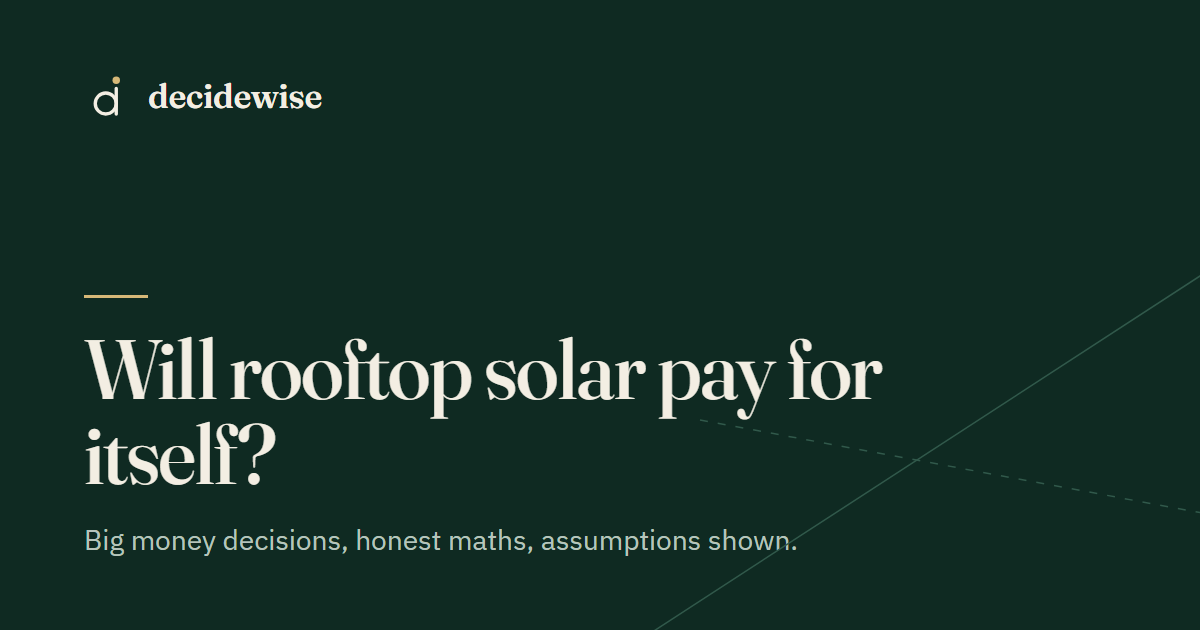
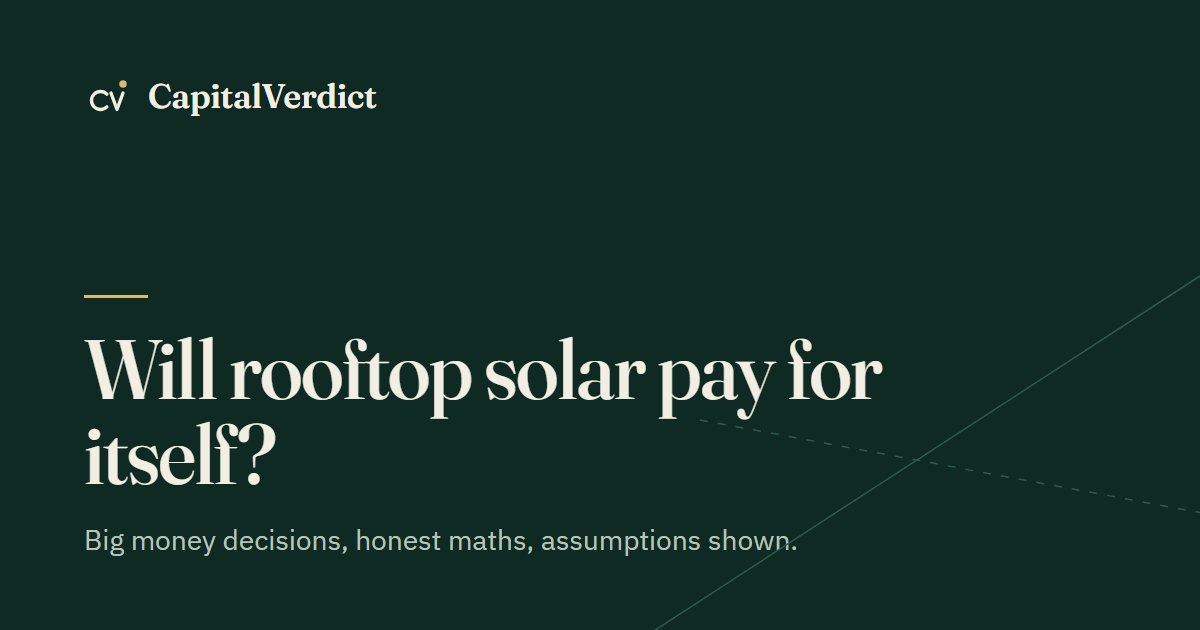
Rebrand to CapitalVerdict
New single-stroke "cv" monogram with the brass dot (logo, favicon, app icons,
brand files) and CapitalVerdict wordmark; name updated in all copy, legal
pages, blog, data source notes, manifest, CSV filenames, docs and tests;
link-preview images re-rendered. Storage keys (dw.*) unchanged so visitors'
saved settings and scenarios carry over.

Changed region(s): [[0.0617, 0.1206, 0.3083, 0.181]]

diff --git a/src/i18n/t.test.ts b/src/i18n/t.test.ts
@@ -9,10 +9,10 @@ describe('i18n dictionaries', () => {
   });
 
   it('fills placeholders', () => {
-    expect(t('en', 'footer.copyright', { year: 2026 })).toBe('© 2026 Decidewise');
+    expect(t('en', 'footer.copyright', { year: 2026 })).toBe('© 2026 CapitalVerdict');
   });
 
   it('leaves unknown placeholders untouched', () => {
-    expect(t('en', 'footer.copyright')).toBe('© {year} Decidewise');
+    expect(t('en', 'footer.copyright')).toBe('© {year} CapitalVerdict');
   });
 });

diff --git a/src/env.d.ts b/src/env.d.ts
@@ -1,7 +1,7 @@
 /// <reference types="astro/client" />
 
 interface ImportMetaEnv {
-  /** Production origin, e.g. https://decidewise.in. Used for canonical links, sitemap and feeds. */
+  /** Production origin, e.g. https://capitalverdict.com. Used for canonical links, sitemap and feeds. */
   readonly SITE_URL?: string;
   /** Where "Report an error" emails go. The link is hidden until this is set. */
   readonly PUBLIC_CONTACT_EMAIL?: string;

diff --git a/src/components/islands/CarFuelTool.tsx b/src/components/islands/CarFuelTool.tsx
@@ -970,7 +970,9 @@ export default function CarFuelTool({ locale }: Props) {
                   : []
               }
               csvFilename={
-                all ? 'decidewise-petrol-cng-ev.csv' : `decidewise-${singleKind}-vs-petrol.csv`
+                all
+                  ? 'capitalverdict-petrol-cng-ev.csv'
+                  : `capitalverdict-${singleKind}-vs-petrol.csv`
               }
             />
           </MoreDetail>

diff --git a/src/components/islands/SolarTool.tsx b/src/components/islands/SolarTool.tsx
@@ -554,7 +554,7 @@ export default function SolarTool({ locale }: Props) {
                 locale={locale}
                 columns={columns}
                 highlight={r.payback && r.payback.months > 0 ? [r.payback.months] : []}
-                csvFilename="decidewise-rooftop-solar.csv"
+                csvFilename="capitalverdict-rooftop-solar.csv"
               />
             </MoreDetail>
           </div>

diff --git a/src/components/islands/RentBuyTool.tsx b/src/components/islands/RentBuyTool.tsx
@@ -733,7 +733,7 @@ export default function RentBuyTool({ locale }: Props) {
                 locale={locale}
                 columns={columns}
                 highlight={r.crossover ? [r.crossover.months] : []}
-                csvFilename="decidewise-rent-vs-buy.csv"
+                csvFilename="capitalverdict-rent-vs-buy.csv"
               />
             </MoreDetail>
           </div>

diff --git a/README.md b/README.md
@@ -1,4 +1,4 @@
-# Decidewise
+# CapitalVerdict
 
 Big money decisions, honest maths, assumptions shown.
 
@@ -24,11 +24,11 @@ Static Astro + TypeScript site with Preact islands, Tailwind and Vitest. English
 2. Build command `npm run build:prod`, output directory `dist`, Node 22.
 3. Set these environment variables (Settings, Environment variables, Production):
 
-   | Variable                    | Required | What it does                                                                                           |
-   | --------------------------- | -------- | ------------------------------------------------------------------------------------------------------ |
-   | `SITE_URL`                  | Yes      | Public origin, e.g. `https://decidewise.in`. Canonical links, sitemap, RSS, link previews, robots.txt. |
-   | `PUBLIC_CONTACT_EMAIL`      | Yes      | Address for "Report an error" on every tool. Without it the link is hidden.                            |
-   | `PUBLIC_CF_ANALYTICS_TOKEN` | No       | Cloudflare Web Analytics token. Off without it; when set, the privacy page describes it automatically. |
+   | Variable                    | Required | What it does                                                                                                |
+   | --------------------------- | -------- | ----------------------------------------------------------------------------------------------------------- |
+   | `SITE_URL`                  | Yes      | Public origin, e.g. `https://capitalverdict.com`. Canonical links, sitemap, RSS, link previews, robots.txt. |
+   | `PUBLIC_CONTACT_EMAIL`      | Yes      | Address for "Report an error" on every tool. Without it the link is hidden.                                 |
+   | `PUBLIC_CF_ANALYTICS_TOKEN` | No       | Cloudflare Web Analytics token. Off without it; when set, the privacy page describes it automatically.      |
 
 4. Add your domain under Custom domains, then submit `https://<domain>/sitemap-index.xml` in Google
    Search Console.

diff --git a/src/content/blog/break-even-the-number-to-ask-for.md b/src/content/blog/break-even-the-number-to-ask-for.md
@@ -32,7 +32,7 @@ Break-even depends on a handful of inputs, and usually one matters most:
 - **The price gap you are saving on.** Fuel, electricity or rent. If that gap shrinks, the wait grows.
 - **The extra price itself**, and the interest rate on it.
 
-Each Decidewise tool has a "what would flip the answer" list. It changes one input at a time and tells you the value at which the other option starts to win, for example the monthly distance below which petrol beats CNG.
+Each CapitalVerdict tool has a "what would flip the answer" list. It changes one input at a time and tells you the value at which the other option starts to win, for example the monthly distance below which petrol beats CNG.
 
 ## Compare it with how long you will keep it
 

diff --git a/CLAUDE.md b/CLAUDE.md
@@ -1,4 +1,4 @@
-# Decidewise
+# CapitalVerdict
 
 Honest money-decision calculators for India. "Big money decisions, honest maths, assumptions shown."
 Astro + TypeScript (static), Preact islands, Tailwind v4, Vitest. English at `/`. Hindi (`/hi/`) is
